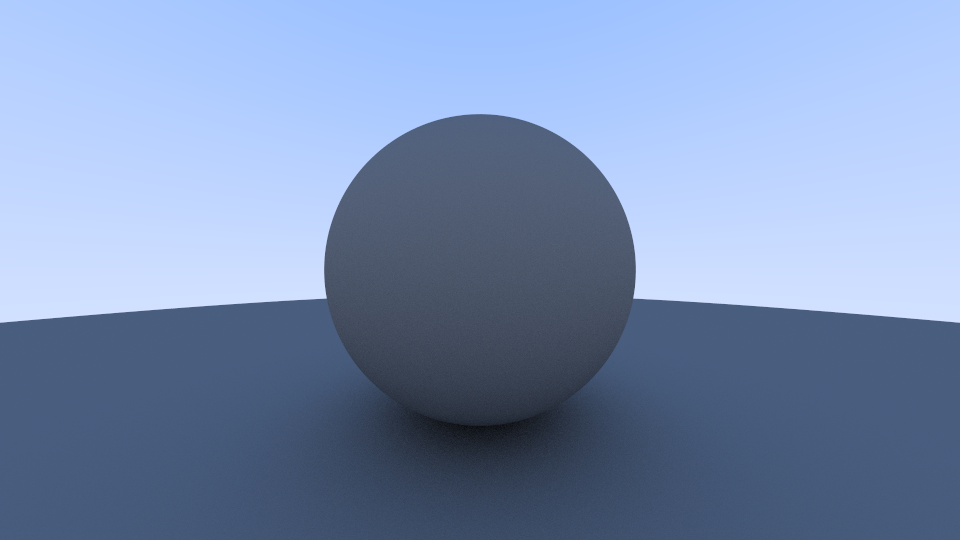
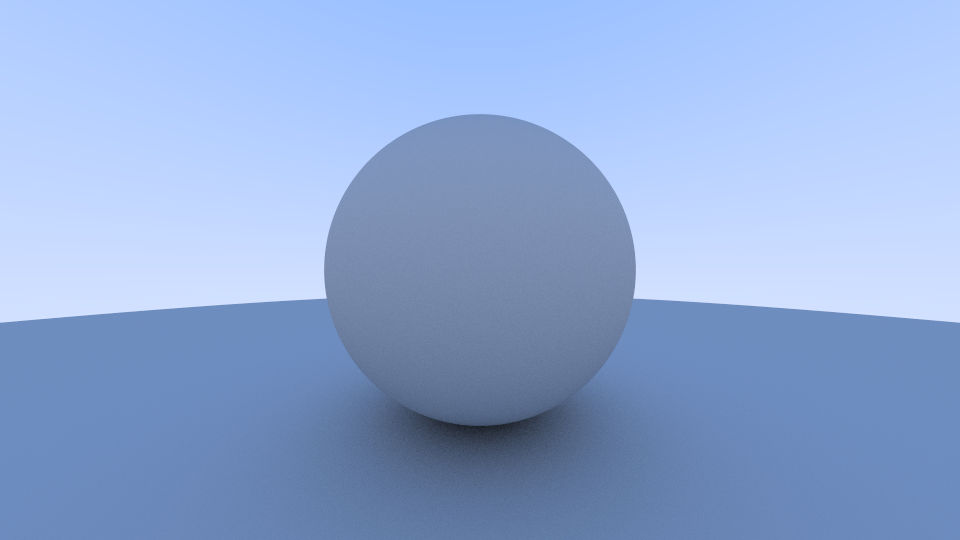
Update progress reporting and the sample image.

diff --git a/Source/main.cpp b/Source/main.cpp
@@ -28,7 +28,7 @@ Vec3 Radiance(const Ray& ray, const Element& element)
         // least for the geometry used here. Normally the tracing should be terminated after a
         // certain recursion level. A ray offset is used to avoid self-intersection.
         static const float RAY_OFFSET = 1e-4f;
-        static const Vec3 materialColor(Vec3(0.5f, 0.5f, 0.5f).Linearize());
+        static const Vec3 materialColor(Vec3(0.75f, 0.75f, 0.75f).Linearize());
         radiance = materialColor * Radiance(Ray(hit.position, direction, RAY_OFFSET), element);
 
         // AMBIENT OCCLUSION: Uncomment this to render ambient occlusion, i.e. the amount by which a
@@ -64,8 +64,14 @@ void Render(
     const Element& element, const Camera& camera, uint8_t* pImageData,
     uint16_t width, uint16_t height, uint16_t samples)
 {
+    // Report the rendering parameters.
+    cout
+        << "Rendering " << width << "x" << height
+        << " at " << samples << " samples per pixel..." << endl;
+
     // Record the start time.
-    auto start = chrono::high_resolution_clock::now();
+    auto startTime = chrono::high_resolution_clock::now();
+    auto prevTime = startTime;
 
     // Iterate the image pixels, starting from the top left (U = 0.0, Y = 1.0) corner, and computing
     // the incident radiance for each one.
@@ -105,19 +111,24 @@ void Render(
         }
 
         // Update the progress if more than one second has elapsed since the last update.
-        auto end = chrono::high_resolution_clock::now();
-        auto elapsed = chrono::duration_cast<chrono::seconds>(end - start).count();
+        auto nextTime = chrono::high_resolution_clock::now();
+        auto elapsed = chrono::duration_cast<chrono::seconds>(nextTime - prevTime).count();
         if (elapsed >= 1)
         {
             float progress = static_cast<float>(height - y) / height;
             UpdateProgress(progress);
-            start = end;
+            prevTime = nextTime;
         }
     }
 
     // Finish progress updates.
     UpdateProgress(1.0f);
     cout << endl;
+
+    // Report the image dimensions and time spent rendering.
+    auto endTime = chrono::high_resolution_clock::now();
+    auto elapsedTime = chrono::duration_cast<chrono::milliseconds>(endTime - startTime).count();
+    cout << setprecision(3) << "Completed in " << elapsedTime / 1000.0f << " seconds." << endl;
 }
 
 // Main entry point.
@@ -152,14 +163,7 @@ int main()
     Camera camera(static_cast<float>(WIDTH) / HEIGHT);
 
     // Render the scene with the camera, to the image buffer with the specified properties.
-    auto start = chrono::high_resolution_clock::now();
     Render(scene, camera, image.GetImageData(), WIDTH, HEIGHT, SPP);
-
-    // Report the image dimensions and time spent rendering.
-    auto end = chrono::high_resolution_clock::now();
-    auto elapsed = chrono::duration_cast<chrono::milliseconds>(end - start).count();
-    cout << setprecision(3) << "Rendered "
-        << WIDTH << "x" << HEIGHT << " in " << elapsed / 1000.0f << " seconds." << endl;
 
     // Save the image.
     image.SavePNG("output.png", SCALE);
